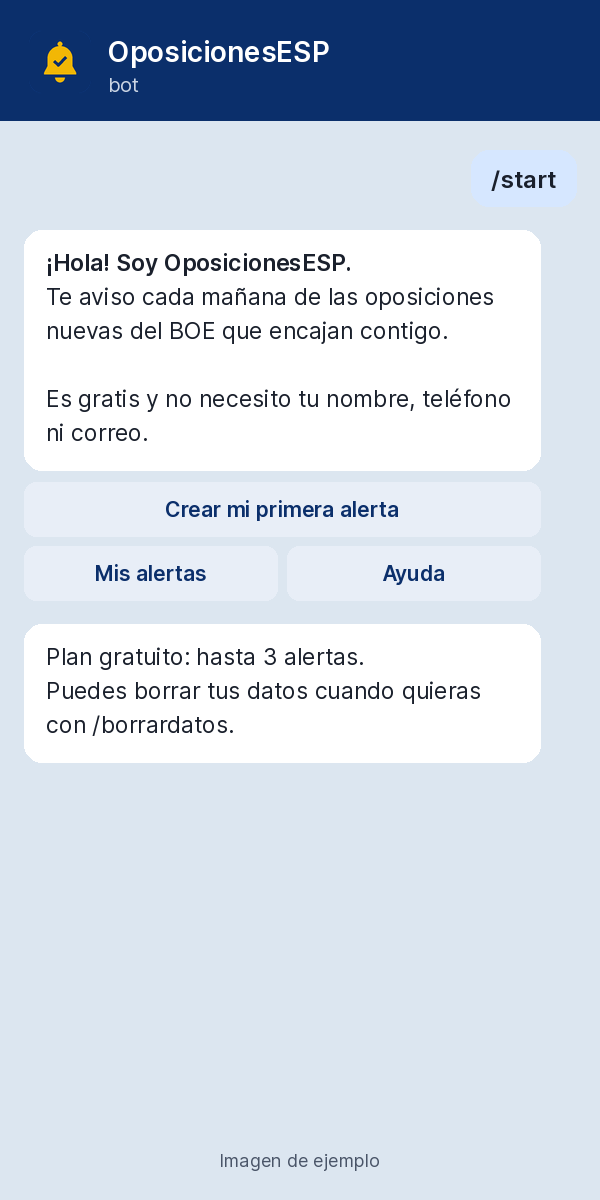
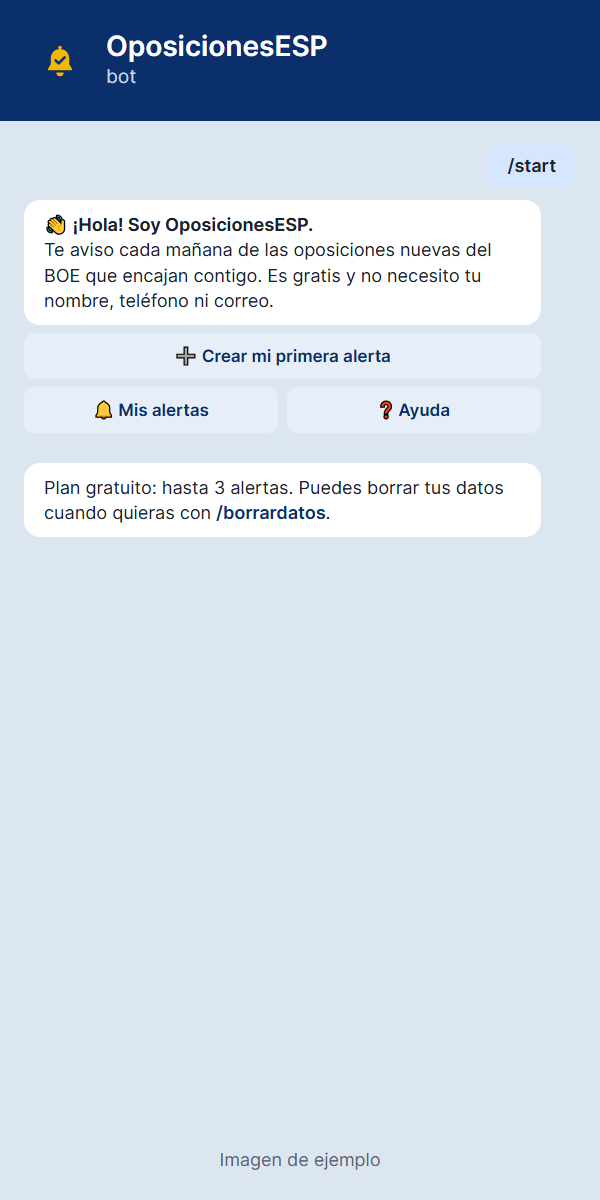
Ajusta capturas y textos de la web al bot real
- Regenera las tres pantallas de «El bot por dentro» con los textos y
  botones literales de bot.py: /start, asistente /nueva (1/3, 2/3, 3/3
  y resumen) y aviso diario (tarjeta con botones Ver en el BOE » y PDF).
- Hero: aviso a las 9:00 y formato de la tarjeta real.
- Corrige promesas que el bot no cumple: avisos de lunes a sábado,
  límite de 5 alertas nuevas al mes, filtro de provincia y titulación,
  acceso libre por defecto, sin edición de alertas, /miid en vez de
  /start, y retención de datos acorde al funcionamiento real.

diff --git a/index.html b/index.html
@@ -88,7 +88,7 @@
       <div class="container hero__grid">
         <div>
           <h1 id="hero-title">Que no se te escape ninguna oposición</h1>
-          <p class="hero__lead">Un bot de Telegram gratuito que revisa el BOE por ti y te avisa cada mañana de las convocatorias nuevas que encajan con tu perfil.</p>
+          <p class="hero__lead">Un bot de Telegram gratuito que revisa el BOE por ti y te avisa cada mañana, de lunes a sábado, de las convocatorias nuevas que encajan con tu perfil.</p>
           <div class="hero__actions">
             <a class="btn btn--primary btn--lg" data-link="bot" href="https://t.me/OposicionesESP_bot">
               <svg aria-hidden="true"><use href="#i-send"/></svg>
@@ -106,13 +106,13 @@
           <div class="mock-alert">
             <div class="mock-alert__top">
               <img src="img/logo.svg" alt="" width="40" height="40">
-              <div><strong>OposicionesESP</strong><small>Aviso de las 8:00</small></div>
+              <div><strong>OposicionesESP</strong><small>Aviso de las 9:00</small></div>
             </div>
-            <p class="mock-alert__title">Nueva convocatoria: Técnico Superior de Sistemas</p>
+            <p class="mock-alert__title">Técnico/a Superior de Sistemas Informáticos</p>
             <dl>
-              <dt>Categoría</dt><dd>TIC</dd>
+              <dt>Categoría</dt><dd>TIC/Informática</dd>
               <dt>Provincia</dt><dd>Madrid</dd>
-              <dt>Plazas</dt><dd>12 · acceso libre</dd>
+              <dt>Plazas</dt><dd>2 · libre</dd>
               <dt>Plazo</dt><dd>20 días hábiles</dd>
             </dl>
             <p class="mock-alert__link">Ver en el BOE »</p>
@@ -138,12 +138,12 @@
           <li class="step">
             <span class="step__num" aria-hidden="true">2</span>
             <h3>Elige qué te interesa</h3>
-            <p>Escoge categoría, provincia y titulación. Puedes crear varias alertas.</p>
+            <p>Escoge categoría (o una palabra clave), provincia y titulación. Puedes tener hasta 3 alertas.</p>
           </li>
           <li class="step">
             <span class="step__num" aria-hidden="true">3</span>
             <h3>Recibe avisos cada mañana</h3>
-            <p>Cuando el BOE publica algo que encaja contigo, te llega un mensaje con lo importante.</p>
+            <p>De lunes a sábado a las 9:00, si el BOE publica algo que encaja contigo, te llega un mensaje con lo importante.</p>
           </li>
         </ol>
       </div>
@@ -161,35 +161,35 @@
           <article class="feature">
             <div class="feature__icon"><svg aria-hidden="true"><use href="#i-tag"/></svg></div>
             <h3>Filtro por categorías</h3>
-            <p>Elige los sectores que te interesan.</p>
+            <p>Elige el sector que te interesa, o busca por palabra clave.</p>
             <ul class="tags" aria-label="Algunas categorías">
-              <li>TIC</li><li>Sanidad</li><li>Educación</li><li>Policía</li><li>Fuerzas Armadas</li><li>Justicia</li><li>Administración</li>
+              <li>TIC/Informática</li><li>Sanidad</li><li>Educación</li><li>Policía Nacional</li><li>Guardia Civil</li><li>Fuerzas Armadas</li><li>Justicia</li><li>Administración General</li>
             </ul>
           </article>
           <article class="feature">
             <div class="feature__icon"><svg aria-hidden="true"><use href="#i-pin"/></svg></div>
             <h3>Por provincia</h3>
-            <p>Recibe solo las plazas de tu provincia, de varias, o de ámbito estatal.</p>
+            <p>Elige tu provincia y recibirás sus plazas, las estatales y las autonómicas de tu comunidad. O toda España.</p>
           </article>
           <article class="feature">
             <div class="feature__icon"><svg aria-hidden="true"><use href="#i-cap"/></svg></div>
             <h3>Por titulación</h3>
-            <p>ESO, Bachillerato, FP, Grado, Máster… Solo verás convocatorias a las que puedes optar.</p>
+            <p>Indica tu titulación más alta (ESO, Bachillerato, FP, Grado, Máster…) y no te llegarán convocatorias que exijan más. Si una no la indica, te llega marcada con ⚠.</p>
           </article>
           <article class="feature">
             <div class="feature__icon"><svg aria-hidden="true"><use href="#i-door"/></svg></div>
-            <h3>Solo acceso libre</h3>
-            <p>Si quieres, descarta la promoción interna y quédate solo con el turno libre.</p>
+            <h3>Acceso libre</h3>
+            <p>Por defecto solo te avisa de plazas de acceso libre. Si ya eres empleado público, puedes incluir la promoción interna.</p>
           </article>
           <article class="feature">
             <div class="feature__icon"><svg aria-hidden="true"><use href="#i-clock"/></svg></div>
             <h3>Plazas y plazo</h3>
-            <p>Cada aviso indica el número de plazas y el plazo de presentación de solicitudes.</p>
+            <p>Cada aviso indica el número de plazas y el plazo de solicitudes cuando la convocatoria los recoge.</p>
           </article>
           <article class="feature">
             <div class="feature__icon"><svg aria-hidden="true"><use href="#i-link"/></svg></div>
             <h3>Enlace al BOE</h3>
-            <p>Acceso directo al anuncio oficial para que consultes siempre las bases completas.</p>
+            <p>Botones al anuncio oficial y a su PDF para que consultes siempre las bases completas.</p>
           </article>
         </div>
       </div>
@@ -204,16 +204,16 @@
         </div>
         <div class="shots">
           <figure class="shot">
-            <img src="img/captura1.png" width="600" height="1200" loading="lazy" alt="Captura del bot: mensaje de bienvenida con el botón para crear una alerta">
+            <img src="img/captura1.png" width="600" height="1200" loading="lazy" alt="Imagen de ejemplo del bot: mensaje de bienvenida con los botones Crear mi primera alerta, Mis alertas y Ayuda">
             <figcaption>Bienvenida y primera alerta</figcaption>
           </figure>
           <figure class="shot">
-            <img src="img/captura2.png" width="600" height="1200" loading="lazy" alt="Captura del bot: selección de categoría, provincia y titulación">
+            <img src="img/captura2.png" width="600" height="1200" loading="lazy" alt="Imagen de ejemplo del bot: pasos 1/3 categoría, 2/3 provincia y 3/3 titulación, y resumen de la alerta con los botones Guardar alerta y Opciones avanzadas">
             <figcaption>Eliges tus filtros con botones</figcaption>
           </figure>
           <figure class="shot">
-            <img src="img/captura3.png" width="600" height="1200" loading="lazy" alt="Captura del bot: aviso diario con una convocatoria, número de plazas, plazo y enlace al BOE">
-            <figcaption>El aviso que recibes cada mañana</figcaption>
+            <img src="img/captura3.png" width="600" height="1200" loading="lazy" alt="Imagen de ejemplo del bot: aviso diario con dos convocatorias, cada una con organismo, categoría, provincia, plazas, titulación, plazo y botones Ver en el BOE y PDF">
+            <figcaption>El aviso que recibes por la mañana</figcaption>
           </figure>
         </div>
       </div>
@@ -233,10 +233,10 @@
             <h3 id="plan-gratis">Gratis</h3>
             <p class="plan__price">0 € <small>para siempre</small></p>
             <ul>
-              <li><svg aria-hidden="true"><use href="#i-check"/></svg>Hasta 3 alertas personalizadas</li>
+              <li><svg aria-hidden="true"><use href="#i-check"/></svg>Hasta 3 alertas a la vez (y 5 alertas nuevas al mes)</li>
               <li><svg aria-hidden="true"><use href="#i-check"/></svg>Filtros por categoría, provincia y titulación</li>
-              <li><svg aria-hidden="true"><use href="#i-check"/></svg>Aviso diario con las novedades del BOE</li>
-              <li><svg aria-hidden="true"><use href="#i-check"/></svg>Enlace directo al anuncio oficial</li>
+              <li><svg aria-hidden="true"><use href="#i-check"/></svg>Aviso de lunes a sábado con las novedades del BOE</li>
+              <li><svg aria-hidden="true"><use href="#i-check"/></svg>Enlace directo al anuncio oficial y su PDF</li>
             </ul>
             <a class="btn btn--primary" data-link="bot" href="https://t.me/OposicionesESP_bot">Empezar gratis</a>
           </article>
@@ -265,7 +265,7 @@
         <div class="faq">
           <details>
             <summary>¿Es gratis?</summary>
-            <div class="faq__body"><p>Sí. El plan gratuito permite hasta 3 alertas sin coste y sin fecha de caducidad. En el futuro habrá un plan Premium opcional con más alertas y más boletines, pero el gratuito seguirá existiendo.</p></div>
+            <div class="faq__body"><p>Sí. El plan gratuito permite hasta 3 alertas a la vez (y crear 5 al mes) sin coste y sin fecha de caducidad. En el futuro habrá un plan Premium opcional con más alertas y más boletines, pero el gratuito seguirá existiendo.</p></div>
           </details>
           <details>
             <summary>¿De dónde salen los datos?</summary>
@@ -277,11 +277,11 @@
           </details>
           <details>
             <summary>¿Cómo me doy de baja?</summary>
-            <div class="faq__body"><p>Puedes borrar tus alertas desde el propio bot, o simplemente bloquearlo o eliminar el chat en Telegram. Si además quieres que borremos todos tus datos, envía el comando <code>/borrardatos</code> o escríbenos a <a data-link="email" href="mailto:contacto@ejemplo.com"><span data-config="EMAIL_CONTACTO">contacto@ejemplo.com</span></a>.</p></div>
+            <div class="faq__body"><p>Puedes borrar tus alertas desde el propio bot con <code>/borrar</code>, o detener o bloquear el bot en Telegram. Si además quieres que borremos todos tus datos, envía el comando <code>/borrardatos</code> o escríbenos a <a data-link="email" href="mailto:contacto@ejemplo.com"><span data-config="EMAIL_CONTACTO">contacto@ejemplo.com</span></a>.</p></div>
           </details>
           <details>
             <summary>¿Qué datos guardáis?</summary>
-            <div class="faq__body"><p>Lo mínimo para que funcione: tu identificador de chat de Telegram, las alertas que configuras y el registro de avisos enviados (para no repetirlos). No pedimos nombre, teléfono ni correo. Más detalles en la <a href="privacidad.html">política de privacidad</a>.</p></div>
+            <div class="faq__body"><p>Lo mínimo para que funcione: tu identificador de chat de Telegram, las alertas que configuras, el registro de avisos enviados (para no repetirlos) y las fechas en que creas alertas (para el límite mensual). No pedimos nombre, teléfono ni correo. Más detalles en la <a href="privacidad.html">política de privacidad</a>.</p></div>
           </details>
         </div>
       </div>

diff --git a/privacidad.html b/privacidad.html
@@ -45,7 +45,7 @@
       <p class="updated">Última actualización: 22 de noviembre de 2026</p>
 
       <div class="box">
-        <p><strong>En resumen:</strong> solo guardamos tu identificador de chat de Telegram, las alertas que configuras y los avisos que te hemos enviado. No te pedimos nombre, teléfono ni correo. No vendemos ni cedemos tus datos. Puedes borrarlo todo cuando quieras con <code>/borrardatos</code>.</p>
+        <p><strong>En resumen:</strong> solo guardamos tu identificador de chat de Telegram, las alertas que configuras y los avisos que te hemos enviado, con sus fechas. No te pedimos nombre, teléfono ni correo. No vendemos ni cedemos tus datos. Puedes borrarlo todo cuando quieras con <code>/borrardatos</code>.</p>
       </div>
 
       <h2>1. Responsable del tratamiento</h2>
@@ -59,8 +59,8 @@
       <h2>2. Qué datos tratamos</h2>
       <p>Cuando usas el bot de Telegram tratamos únicamente:</p>
       <ul>
-        <li><strong>Identificador de chat de Telegram</strong>: un número que Telegram asigna a tu conversación con el bot. Lo necesitamos para poder enviarte los avisos.</li>
-        <li><strong>Alertas configuradas</strong>: las categorías, provincias, titulación y demás filtros que eliges.</li>
+        <li><strong>Identificador de chat de Telegram</strong>: un número que Telegram asigna a tu conversación con el bot, y la fecha en que empezaste a usarlo. Lo necesitamos para poder enviarte los avisos.</li>
+        <li><strong>Alertas configuradas</strong>: la categoría o palabras clave, la provincia, la titulación y demás filtros que eliges, y las fechas en que creas alertas (para aplicar el límite mensual del plan gratuito).</li>
         <li><strong>Avisos enviados</strong>: qué convocatorias te hemos mandado y cuándo, para no repetirlas.</li>
       </ul>
       <p><strong>No pedimos ni guardamos</strong> tu nombre, número de teléfono ni correo electrónico. Telegram puede mostrarnos tu nombre de perfil o tu alias al escribir al bot, pero no los almacenamos.</p>
@@ -75,9 +75,9 @@
       <h2>5. Cuánto tiempo los conservamos</h2>
       <ul>
         <li>Mientras tengas alertas activas y uses el bot.</li>
-        <li>Si usas <code>/borrardatos</code> o nos lo pides por correo, los eliminamos de inmediato (como máximo en 30 días).</li>
-        <li>Si bloqueas el bot o Telegram nos indica que ya no se pueden entregar mensajes, eliminamos tus datos en un plazo máximo de 30 días.</li>
-        <li>El registro de avisos enviados se conserva como máximo 12 meses y después se borra automáticamente.</li>
+        <li>Si usas <code>/borrardatos</code>, se eliminan en el momento. Si nos lo pides por correo, los eliminamos como máximo en 30 días.</li>
+        <li>Si bloqueas el bot, tus datos se eliminan automáticamente la próxima vez que el bot intente enviarte un mensaje y Telegram indique que no se puede entregar. Si quieres que se borren ya, usa <code>/borrardatos</code> antes de bloquearlo.</li>
+        <li>El registro de avisos enviados se conserva mientras exista tu usuario y se borra junto con él.</li>
       </ul>
 
       <h2>6. A quién se comunican</h2>
@@ -88,7 +88,7 @@
       <p>Puedes ejercer en cualquier momento tus derechos de:</p>
       <ul>
         <li><strong>Acceso</strong>: saber qué datos tuyos tenemos.</li>
-        <li><strong>Rectificación</strong>: corregirlos (puedes editar tus alertas desde el propio bot).</li>
+        <li><strong>Rectificación</strong>: corregirlos (puedes borrar una alerta con <code>/borrar</code> y crear otra desde el propio bot).</li>
         <li><strong>Supresión</strong>: pedir que los borremos.</li>
         <li><strong>Oposición</strong> y <strong>limitación</strong> del tratamiento.</li>
         <li><strong>Portabilidad</strong>: recibirlos en un formato estructurado.</li>
@@ -98,7 +98,7 @@
       <h2>8. Cómo borrar tus datos</h2>
       <div class="box">
         <p><strong>Opción rápida:</strong> escribe <code>/borrardatos</code> en el bot. Se eliminarán tu identificador de chat, todas tus alertas y el historial de avisos.</p>
-        <p style="margin:0"><strong>Por correo:</strong> escribe a <a data-link="email" href="mailto:contacto@ejemplo.com"><span data-config="EMAIL_CONTACTO">contacto@ejemplo.com</span></a> indicando tu alias de Telegram o enviándonos el mensaje que te devuelve el comando <code>/start</code>, para poder identificar tu chat. Te responderemos en un plazo máximo de un mes.</p>
+        <p style="margin:0"><strong>Por correo:</strong> escribe a <a data-link="email" href="mailto:contacto@ejemplo.com"><span data-config="EMAIL_CONTACTO">contacto@ejemplo.com</span></a> indicando tu alias de Telegram o enviándonos el número que te devuelve el comando <code>/miid</code>, para poder identificar tu chat. Te responderemos en un plazo máximo de un mes.</p>
       </div>
 
       <h2>9. Reclamaciones</h2>
